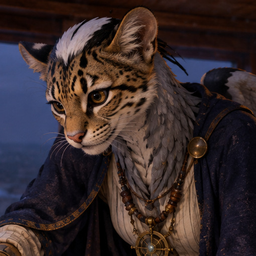
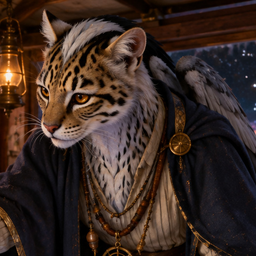
feat(pilots): ZODIAC painted again: the sea outside the chart house is the one the chart shows
Garrett, 2026-11-11 23:01 UTC: "the dual perspectives of jugger is a better
standard for windows, which applies to zodiac as well. zodiacs hands are also
an old man's which doesn't fit."

- The windows no longer hold a dusk over dark water. They hold what the chart
  shows from above: black space with white dust, a wall of bricks of light
  close outside and far hollow spheres of six-sided panes. The chart on the
  table shows the same rings of bricks small.
- The creased kid gloves are gone: both hands are the ocelot's own, young,
  spotted and slim.
- Third of three paintings. The first two called the growth outside "a reef"
  and got glowing rock (a spiral with boulders, a lava plain under a horizon);
  the third calls it "a wall of bricks of light, each as big as a door" and
  got bricks. The record says so.
- Avatar re-cut from the new scene (head, crown, plumes, the wing behind).

No C# changed, so the reference compile was not run. scene.py, refs.py,
bust.py, creator.py and blind.py self-tests pass; the avatar writer's --check
passes; approvals.py check exits 0 (no lane collision).

Affects: Shombith's Docs/VesselModels/colour_grade.json (regenerated by
colour_grade.py for the one changed avatar; no rule changed).

Claude-Session: https://claude.ai/code/session_01WQBAi6RtMp5ZQ2VagCFDrS

diff --git a/Tools/Build/pilot_art/scenes/ZODIAC.py b/Tools/Build/pilot_art/scenes/ZODIAC.py
@@ -1,11 +1,23 @@
 """Ivelia Starreach, ZODIAC: ocelot and heron, a merchant. One of the few scenes that show the sea the pilots sail
 (Garrett, 2026-11-11: "Make a few of them render the hypersea in their scene on either a panel or holographic
-display"): a chart of light over a chart table, measured with a paper chart's brass dividers."""
+display"): a chart of light over a chart table, measured with a paper chart's brass dividers.
+
+His notes on the second painting (2026-11-11, 23:01 UTC): "the dual perspectives of jugger is a better standard for
+windows, which applies to zodiac as well. zodiacs hands are also an old man's which doesn't fit." So the windows no
+longer hold a dusk over dark water: they hold the sea the chart shows from above, at its true size (the reef outside
+is the chart's nearest coral-orange island), and the creased kid gloves are gone: the hands are the ocelot's own,
+young, spotted and slim.
+
+Three paintings. The first two called what is outside "a reef of coral-orange bricks of light with violet edges" and
+got a reef: glowing rock, once as a spiral with dark boulders and once as a lava plain under a horizon. The third
+says "a wall of bricks of light, each as big as a door, ... coral orange deepening to violet", the words that built
+Trace's port, and got bricks, with the same rings of bricks drawn small on the chart (LESSONS 78: the painter paints
+the noun, so a growth of bricks is called bricks, never a reef, a coral or an island)."""
 SCENE = dict(
-    treatment="Travel reportage on slow slide film, dusk in a chart house",
-    shot=("A travel-reportage photograph on slow colour slide film: a 35mm rangefinder, the lens nearly wide open, "
-          "the camera braced on a door frame at dusk. Saturated colour, deep indigo shadows that still hold "
-          "detail, fine grain. The figure is seen from the thighs up, leaning over a table."),
+    treatment="Travel reportage on slow slide film, a chart house lit by the reef outside",
+    shot=("A travel-reportage photograph on slow colour slide film: a 35mm lens nearly wide open. Saturated colour, "
+          "deep indigo shadows that still hold detail. The figure is seen from the thighs up, leaning over a "
+          "table."),
     side="right",
     chart=("hologram", "waters"),
     source="history: \"was apprenticed to a cartographer\" (the game's Upbringings)",
@@ -13,23 +25,26 @@ SCENE = dict(
     # what a living bird's feathers look like to a camera.
     seen=("the heron's feathers are a wild bird's, soft, matte and a little untidy: fine loose filaments at their "
           "edges, the grey neck feathers lying in overlapping rows, the two thin black plumes at the nape parted "
-          "by the draught, none of them glossy, stiff or neat",
-          "the cloak is deep indigo wool edged with dull gold and pinned at one shoulder; the tunic is cream silk "
-          "with pale gold stripes; the tokens are wooden and brass beads on three cords"),
-    doing=("Ivelia leans over the chart table on one braced arm and walks a pair of brass dividers along the chart "
-           "of light, point over point down its lime-yellow course line, the way a paper chart is measured. The "
-           "points pass through the light and tick on the wood under it. The "
-           "lips are parted and the ears pricked: bright, open curiosity. The face is turned three-quarters to "
-           "the camera, both eyes on the dividers. The wings are folded high behind the shoulders."),
-    place=("The chart house of a trade barge at dusk: a small deckhouse of oiled wood with windows on three sides. "
-           "Over the sloping chart table floats {chart} The sheet lies level, a hand above the table and as wide "
-           "as it. On the table's edge, a parallel rule, a tin mug and rolled paper charts with blank backs. "
-           "Through the salt-filmed windows, deep indigo haze over dark water, and far off a few pale spheres "
-           "hanging in it like paper lanterns."),
-    light=("The dusk in the windows is the main light, blue and soft. A brass oil lamp on a hook, turned low, "
-           "warms the near side of the face and the white of the crown. The chart gives only a thin cold tint to "
-           "the chin, the dividers and the gloved fingers."),
-    wear=("The cloak's hem is stiff with dried salt and one corner is singed; the gold edging is rubbed dull; "
-          "pencil dust greys the right glove; a thread hangs from a cuff; two flight feathers are out of line."),
-    close=(720, 0, 1230, 510),
+          "by the draught",
+          "the cloak is deep indigo wool edged with dull gold, pinned at one shoulder; the tunic is cream silk "
+          "striped pale gold; the tokens are wooden and brass beads on cords"),
+    hands=("Both hands are the ocelot's own, young and strong: a person's hands in shape, four fingers and a thumb, "
+           "in short golden fur with small black spots, slim-fingered, with dark pads at the tips. The wrists wear "
+           "the same spotted fur."),
+    doing=("Ivelia leans over the chart table on one braced arm and walks a pair of brass dividers down the "
+           "chart's lime-yellow course line, point over point. The lips are parted and the ears pricked: bright, "
+           "open curiosity. The face is turned three-quarters to the camera, both eyes on the dividers. The wings "
+           "are folded high behind the shoulders."),
+    place=("The chart house of a trade barge under way through deep space: a small deckhouse of oiled wood with "
+           "windows on three sides. Over the sloping chart table floats {chart} The sheet lies level, a hand above "
+           "the table and as wide as it. Outside all three windows is the place the chart shows from above: black "
+           "space sown with fine white dust; close outside, a wall of bricks of light, each as big as a door, set "
+           "edge to edge in rings round open holes, coral orange deepening to violet; and far off three vast "
+           "hollow spheres, each a net of thin dim blue lines in six-sided panes, hanging like paper lanterns."),
+    light=("The bricks outside light the room low through the windows, coral orange and violet. A brass oil lamp "
+           "on a hook, turned low, warms the near side of the face and the white of the crown. The chart gives a "
+           "thin cold tint to the chin, the dividers and the spotted fingers."),
+    wear=("The cloak's hem is frayed and one corner singed; the gold edging is rubbed dull; pencil dust greys the "
+          "fur of two fingers; two flight feathers are out of line."),
+    close=(800, 0, 1320, 520),
 )
